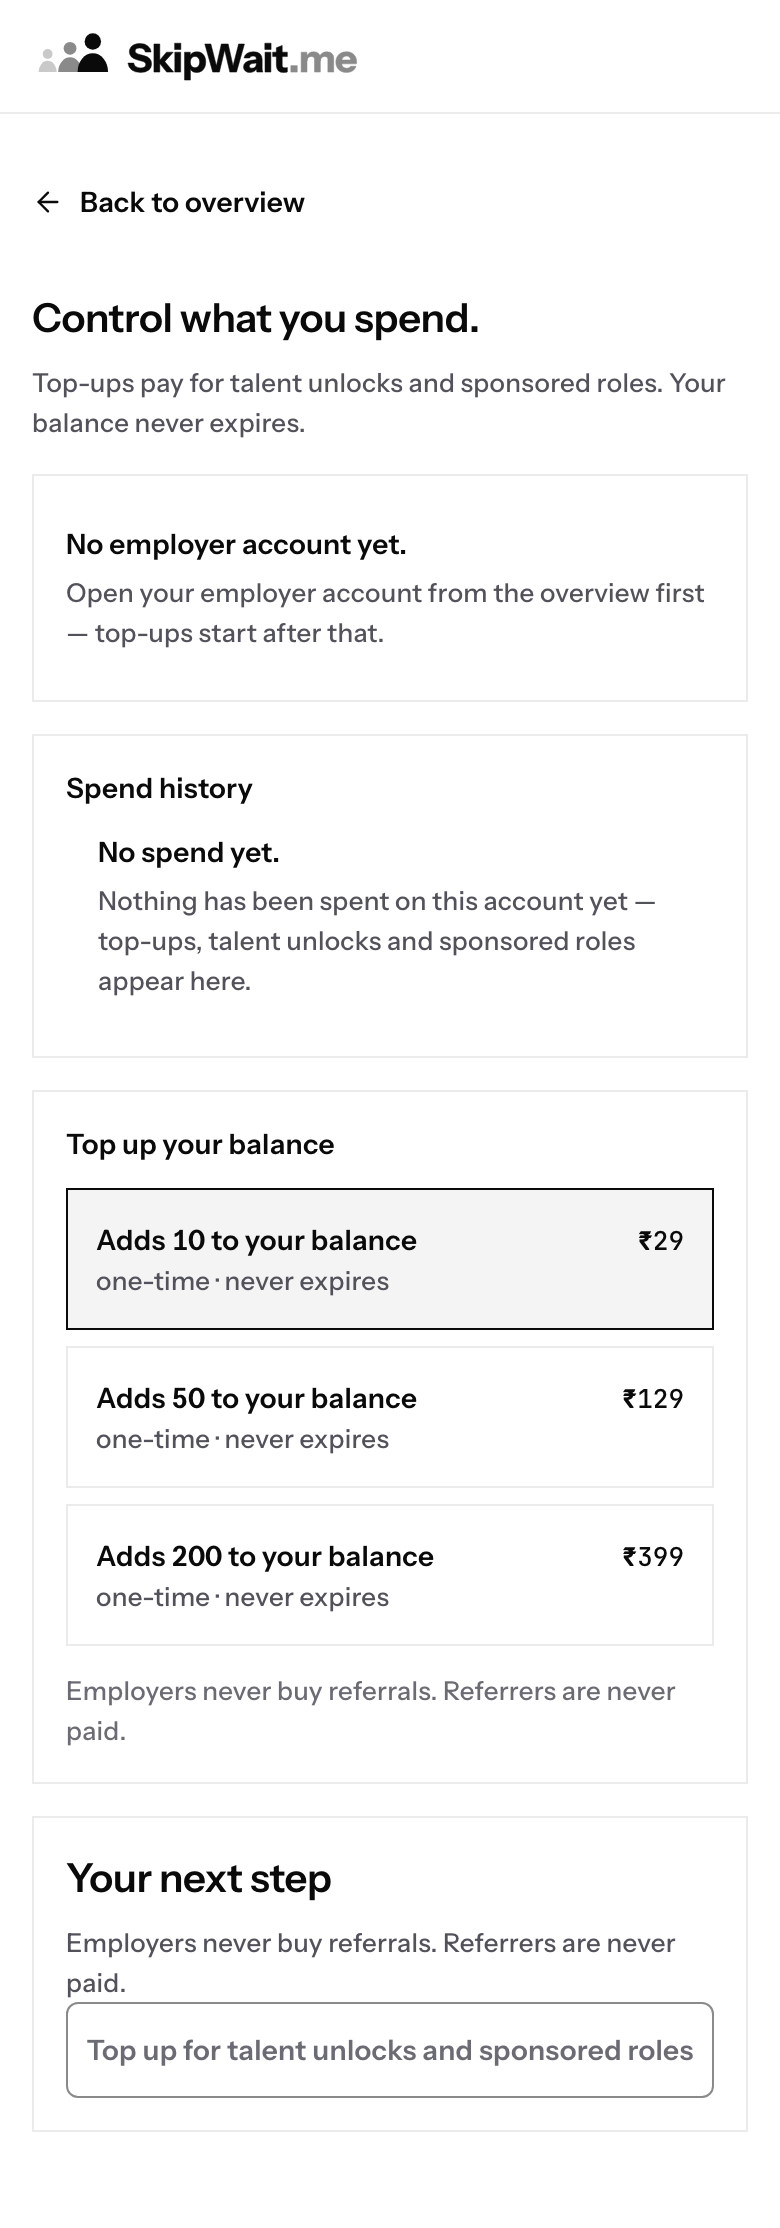
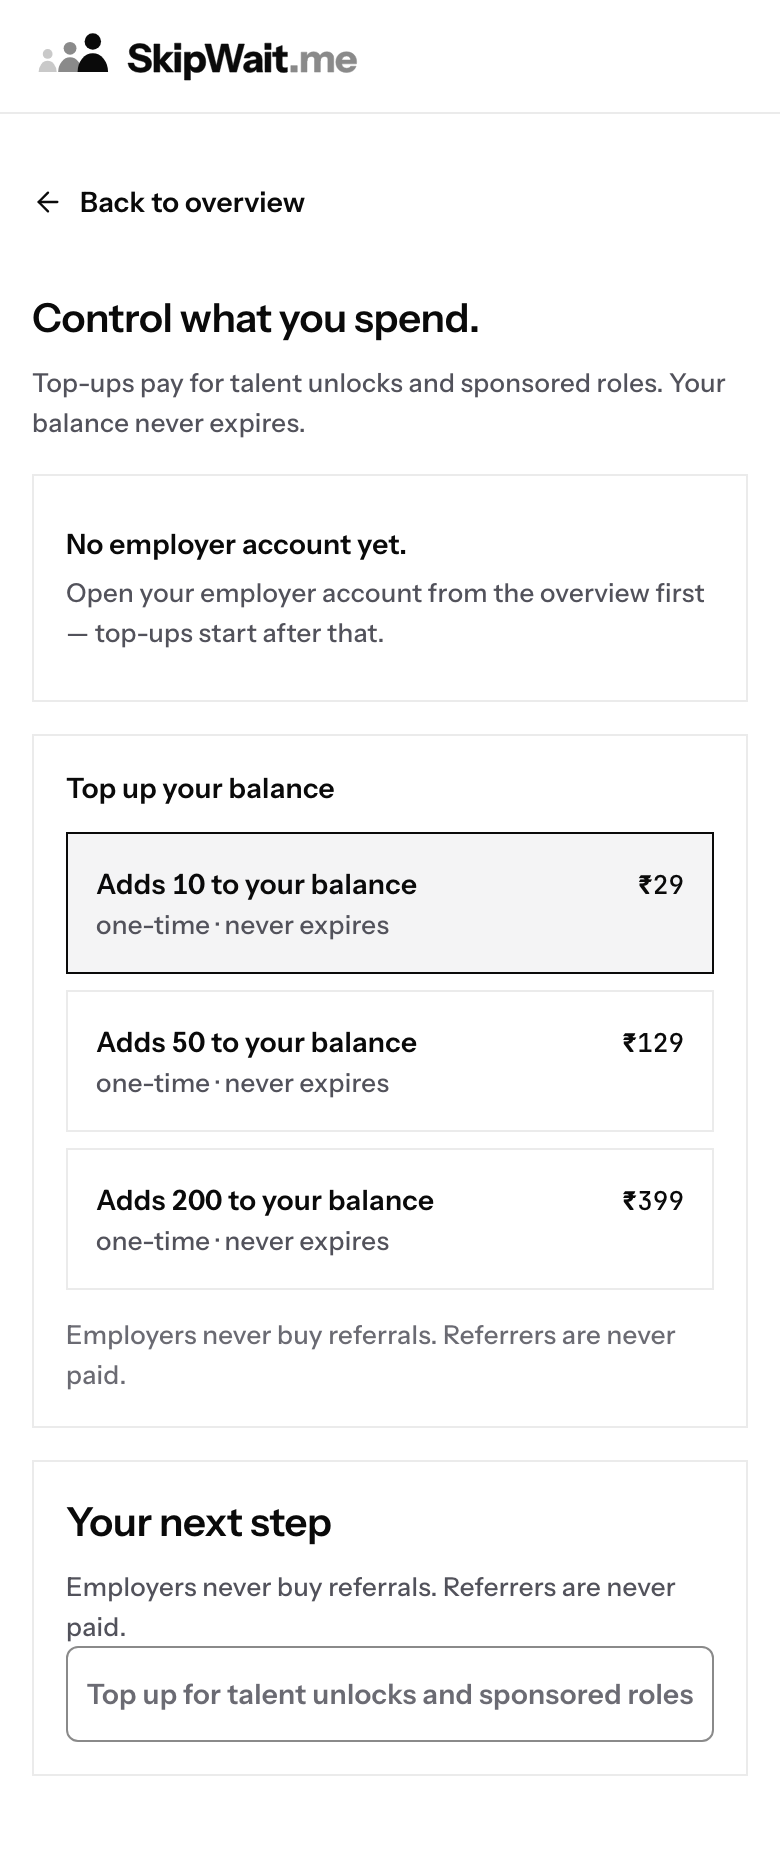
D-048-p3-employer-billing: name the missing account before the restricted state
A signed-in user with no employer account gets { account: null } from the
account route and 403 from the approved-employer ledger, so the page named
the restricted-tools state instead of the account that is actually missing.
The missing account now decides the disabled reason, and the restricted
notice renders only for an account that exists. The no-account test and its
capture fixture use the real 403 rather than a 200 the server never sends.

The purchase mock's default reply always described the growth pack while
tests selected starter, so a passing test could hold an order for a pack
nobody chose; it now derives the order from the requested pack, and a new
test pins that selecting scale opens a scale order.

diff --git a/client/src/pages/goal/employer-billing/employerBilling.goal.test.tsx b/client/src/pages/goal/employer-billing/employerBilling.goal.test.tsx
@@ -70,9 +70,13 @@ const serve = (server: Server) => {
     const path = String(input).replace(/^https?:\/\/[^/]+/, "").split("?")[0];
     if (path === PURCHASE_PATH) {
       const headers = (init?.headers ?? {}) as Record<string, string>;
-      calls.push({ path, method: init?.method ?? "GET", headers, body: String(init?.body ?? "") });
+      const body = String(init?.body ?? "");
+      calls.push({ path, method: init?.method ?? "GET", headers, body });
+      // The default reply describes the pack the request actually names, so a
+      // test cannot pass on an order that belongs to a different selection.
+      const requested = UNLOCK_PACKS.find(pack => pack.id === JSON.parse(body || "{}").pack) ?? UNLOCK_PACKS[0];
       const reply = server.purchase?.[Math.min(purchaseIndex, (server.purchase?.length ?? 1) - 1)]
-        ?? { status: 200, body: { orderId: "order_test_1", amount: 12900, currency: "INR", keyId: "rzp_test_key", pack: "growth", credits: 50 } };
+        ?? { status: 200, body: { orderId: "order_test_1", amount: requested.amountInPaise, currency: "INR", keyId: "rzp_test_key", pack: requested.id, credits: requested.adds } };
       purchaseIndex += 1;
       return json(reply.status, reply.body ?? { error: "We could not start the Razorpay checkout. Try again shortly." }, path);
     }
@@ -200,11 +204,16 @@ describe("goal /employer/billing states", () => {
   });
 
   it("no employer account yet: the commit is inert and says what must happen first", async () => {
-    serve({ account: null });
+    // The real server answer for a signed-in user with no employer account: the
+    // account route answers { account: null } and the approved-employer ledger
+    // answers 403 (server/employerRoutes.ts requireEmployer). The page must name
+    // the missing account, not the restricted-tools state that follows from it.
+    serve({ account: null, spendStatus: 403 });
     const { container } = renderPage(<GoalEmployerBilling />);
     const commit = await screen.findByRole("button", { name: /Top up for talent unlocks/ });
     expect(commit.getAttribute("aria-disabled")).toBe("true");
     expect(screen.getByText("Open your employer account first")).toBeTruthy();
+    expect(screen.queryByText("Employer tools, including top-ups, are closed for this account.")).toBeNull();
     expect(() => assertGoalPage(container, GOAL_PAGE)).not.toThrow();
     expect(purchaseCalls()).toHaveLength(0);
   });
@@ -336,6 +345,21 @@ describe("goal /employer/billing top-up money path", () => {
     await waitFor(() => expect(purchaseCalls()).toHaveLength(1));
     expect((await screen.findByRole("alert")).textContent).toMatch(/preparing your checkout/i);
     expect(widgetOpened).toBe(0);
+  });
+
+  it("the order the page opens belongs to the pack the employer selected", async () => {
+    serve({ account: ACCOUNT, spend: SPEND });
+    stubKeys();
+    stubRazorpay();
+    renderPage(<GoalEmployerBilling />);
+    fireEvent.click(await screen.findByRole("button", { name: /Adds 200 to your balance/ }));
+    fireEvent.click(screen.getByRole("button", { name: /Top up for talent unlocks and sponsored roles/ }));
+    await waitFor(() => expect(widgetOpened).toBe(1));
+    const scale = UNLOCK_PACKS.find(pack => pack.id === "scale");
+    expect(scale).toBeTruthy();
+    expect(purchaseCalls()[0].body).toBe('{"pack":"scale"}');
+    expect(widgetOptions.amount).toBe(scale?.amountInPaise);
+    expect(widgetOptions.amount).toBe(39900);
   });
 });
 

diff --git a/client/src/pages/goal/employer-billing/GoalEmployerBilling.tsx b/client/src/pages/goal/employer-billing/GoalEmployerBilling.tsx
@@ -154,7 +154,10 @@ export default function GoalEmployerBilling() {
 
   const restricted = data.spend.access === "restricted";
   const spend = data.spend;
-  const disabledReason = restricted ? RESTRICTED_REASON : data.account ? undefined : NO_ACCOUNT_REASON;
+  // The ledger's 403 follows from a missing account too (requireEmployer needs an
+  // approved one), so the missing account is the fact to name first; the
+  // restricted-tools notice only speaks for an account that exists.
+  const disabledReason = data.account ? (restricted ? RESTRICTED_REASON : undefined) : NO_ACCOUNT_REASON;
   const checkoutError = topUp.isError ? errorText(topUp.error, CHECKOUT_ERROR_FALLBACK) : "";
 
   return (
@@ -178,10 +181,10 @@ export default function GoalEmployerBilling() {
         ) : (
           <GoalEmptyState title={NO_ACCOUNT_TITLE} body={NO_ACCOUNT_BODY} className="border border-g-hairline bg-g-surface" />
         )}
-        {spend.access === "restricted" ? (
+        {data.account === null ? null : spend.access === "restricted" ? (
           <section className="border border-g-hairline bg-g-surface p-4 gdesk:p-5">
             <p className="text-g-label text-g-ink">{RESTRICTED_NOTICE}</p>
-            {data.account?.decisionNote ? <p className="mt-1 text-g-meta text-g-ink-2">{data.account.decisionNote}</p> : null}
+            {data.account.decisionNote ? <p className="mt-1 text-g-meta text-g-ink-2">{data.account.decisionNote}</p> : null}
           </section>
         ) : (
           <SpendRecord spend={spend} />

diff --git a/docs/plans/D-048-employer.md b/docs/plans/D-048-employer.md
@@ -90,6 +90,6 @@ None. Employer commercials and consent rules are already decided; this packet ma
 Branch agent/queue/d048-p3-employer-billing @ code head `7d188a19`, merged with origin/main `7df2004b` as a genuine two-parent merge (`208d5638`, parents `2d22adf1` + `7df2004b`; diff vs main unchanged at 6 files / 855 insertions before this row's captures). Red first: Qoder's test-only commit `82342af1` reproduced in a detached worktree — the goal suite cannot resolve `./GoalEmployerBilling` and both switch tests fail → 20/20 on the implementation head. This session's own defect pin `0180940d` failed 1/18 before the fix. Mutation binding: adding one field to the purchase POST body turns 2 money-path tests red (`expected '{"pack":"growth","note":"mutant"}' to be '{"pack":"growth"}'`); removing `grid-cols-1` from one grid turns the new overflow pin red again; both mutants restored clean. Gate on `7d188a19`: `pnpm check` 0 · design-token-audit OK (430 files / 1274 approved tokens / 3 third-party) · lint-deploy-migrations 0 · check-deploy-triggers OK · decision-id-check 0 · scope-check "3 owned path(s), every change inside them" · `git diff --check` 0 · focused 21/21 · boundary/coverage/harness 307/307 · full `pnpm quality:gate` 0 (maxWorkers=1, 1028s: 604 files + 5 skipped, 5949 passed + 18 skipped, 0 failed) · `pnpm build` 0 · `VITE_GOAL_SURFACES=all pnpm build` 0. 1280/390: 11 state pairs (22 PNGs) from 11 synthetic fixtures, all `horizontalOverflowPx: 0`, `unmatchedApi: []`; local build with `VITE_GOAL_SURFACES=employer-billing`. Live: not landed, by design (Tier 1 draft PR, D-074/D-151); `RELEASED` stays `["home"]`, so the surface ships dark and no live page changed.
 Left out / follow-ups: a fresh Tier 1 draft PR is red only at the Tier 1 review gate by construction — the D-254 class (#988/D-286 registers `PICKER-gate-red-review-route`); that gate is not waived, and the independent review is owed on the branch's final head (each status/marker commit moves it). The picker/FIFO order conflict measured this session is on #811 (comment 6666306241) and #982 (comment 6666324607): numbered priority hands the two paused LANDs (#989/#992) before the FIFO-first #982, and #982's LAND is reachable only after five avoids. No gate, tier, verdict, registry status, landing slot or production flag was changed by this session.
 
-`D-048-p3-employer-billing`: fix — agent/queue/d048-p3-employer-billing — Qoder · d6a6 — 2026-11-07 — resolves the two findings in GPT-6 Astra · 4e32's evidence-hold review of `091fbf70` (PR #996 comment 6712611722). **P2 fixture defect, repaired red-first.** `design/goal-ui/captures/employer-billing/goal-employer-billing__restricted.json` returned a bare account object while the route answers `{ account }` (`server/employerRoutes.ts:101`) and `employerBillingData.ts` parses that envelope, so the committed fixture parsed as `account: null` and rendered "No employer account yet." with no balance or decision note. The fixture now carries `{ "account": { ... } }` and `approvalStatus: "pending"`, which is the state that actually answers 403 on `/api/employer/spend-history` (`requireEmployer` needs `approved`; an `approved` account could not be restricted). A new test, "the committed restricted fixture renders the account it carries, not the no-account state", serves the checked-in fixture's own route bodies verbatim the way the capture harness does, and pins balance 8, the decision note, the absence of the no-account state, the disabled commit and zero purchase requests. It failed before the fix (`Unable to find an element with the text: Talent unlock balance`) and passes after. `restricted-1280.png` / `restricted-390.png` regenerated from the corrected fixture (`horizontalOverflowPx: 0` at both). **Finding 1, assertion-level red-first evidence.** Each required assertion was proved to fail on its own, with the implementation mutated and restored byte-identically (`git diff --stat` empty after each run): restricted state — dropping `RESTRICTED_REASON` from `disabledReason` fails `expected null to be 'true'` on the commit's `aria-disabled`; no-account state — same mutation fails the same assertion; money copy — `TOPUP_HEADING = "Buy credits"` fails `expected '…' not to match /Buy credits|Buy referrals/`; loading — returning `null` instead of `<Loading />` fails `Unable to find role="heading" and name "Control what you spend."`; error — replacing "Nothing was changed." fails `expected 'Something went wrong.…' to contain 'Nothing was changed'`. These are assertion failures at the named test, not a module-resolution error. Gate on this head: `pnpm check` 0 · design-token-audit OK (442 files / 1273 approved tokens / 3 third-party) · lint-deploy-migrations 0 · check-deploy-triggers OK · scope-check "3 owned path(s), every change inside them" · `git diff --check` 0 · focused `employer-billing` 22/22 · `pnpm build` 0 · `VITE_GOAL_SURFACES=all pnpm build` 0. **Not fixed here, by ownership:** the reviewer's separate pre-existing note that the flag-off `EmployerBilling.tsx:77` handler omits the `Idempotency-Key` the route requires (428) is real and predates this PR; `EmployerBilling.tsx` is switch-only under this row's owns, so it needs its own row rather than an edit here. No production flag, employer price, unlock or access rule changed.
+`D-048-p3-employer-billing`: fix — agent/queue/d048-p3-employer-billing — Qoder · d6a6 — 2026-11-07 — resolves the findings in GPT-6 Astra · 4e32's evidence-hold review and its reconciliation addendum on `091fbf70` (PR #996 comments 6713008784, 6713103915). **P2 fixture defect, repaired red-first.** `goal-employer-billing__restricted.json` returned a bare account object while the route answers `{ account }` (`server/employerRoutes.ts:101`) and `employerBillingData.ts` parses that envelope, so the committed fixture parsed as `account: null` and rendered "No employer account yet." with no balance or decision note. It now carries `{ "account": { ... } }` with `approvalStatus: "pending"` — the state that actually answers 403 on spend-history, since `requireEmployer` needs `approved`. A new test serves the checked-in fixture's own route bodies verbatim, the way `capture.mjs` does, and pins balance 8, the decision note, the absence of the no-account state, the disabled commit and zero purchase requests; it failed before the fix (`Unable to find an element with the text: Talent unlock balance`) and passes after. `restricted-1280/390.png` regenerated, `horizontalOverflowPx: 0` at both. **No-account state, repaired red-first.** The reviewer noted the no-account test mocked spend-history as 200, not the real 403. With the real 403 the page named the restricted-tools state instead of the missing account, because the 403 follows from a missing account too. `disabledReason` now names the missing account first and the restricted notice renders only for an account that exists; the no-account test and its fixture both use the real 403, and `no-account-1280/390.png` are regenerated. It failed before the change (`Unable to find an element with the text: Open your employer account first.`) and passes after. **Test-fixture mismatch, repaired.** The purchase mock's default reply always described growth (₹129/50) while tests selected starter (₹29/10); it now derives the order from the pack the request names, and a new test pins that selecting scale opens a ₹399/200 order — reverting the mock to the hardcoded growth reply fails it (`expected 12900 to be 39900`). **Assertion-level red-first evidence (finding 1).** Each required assertion was proved to fail on its own with the implementation mutated and restored byte-identically (`git diff --stat` empty after each run; no mutation committed): restricted state — dropping `RESTRICTED_REASON` fails `expected null to be 'true'` on the commit's `aria-disabled`; money copy — `TOPUP_HEADING = "Buy credits"` fails `not to match /Buy credits|Buy referrals/`; loading — returning `null` instead of `<Loading />` fails `Unable to find role="heading" and name "Control what you spend."`; error — replacing "Nothing was changed." fails `to contain 'Nothing was changed'`. These are assertion failures at the named test, not a module-resolution error. **Gate on this head:** `pnpm check` 0 · design-token-audit OK · lint-deploy-migrations 0 · check-deploy-triggers OK · scope-check "3 owned path(s), every change inside them" · `git diff --check` 0 · focused `employer-billing` 23/23 · `pnpm build` 0 · `VITE_GOAL_SURFACES=all pnpm build` 0. **Not fixed here, by ownership:** the confirmed pre-existing defect that the flag-off `EmployerBilling.tsx:77` handler omits the `Idempotency-Key` the route requires (428) predates this PR and `EmployerBilling.tsx` is switch-only under this row's owns, so it needs its own row. The reviewer's provider-contract and checkout-recovery observations (order-note propagation to payment-entity notes; no dismissal/decline hook) are recorded as risk, not proven defects, and belong to the payment lane. No production flag, employer price, unlock or access rule changed.
 
 `D-048-p3-for-companies`: unblocked by ruling **D-296** (2026-11-07, Antigravity · 2651, unblock lock `agent/architect/d048-p3-for-companies`): the block on Hark · 32ab's build is registration, not a defect. This packet already names `components/employer/employerPlans.ts` read-only (`:37`), and the data contracts carry no styling leak (satisfies `behavior-only` under D-241). The row now owns `client/src/test/goalPagesBoundary.test.ts` (syncedTo `"D-296"`); on the row's own branch, admit `components/employer/employerPlans.ts` as a `behavior-only` AUDITED entry. The row stays Tier 1 and `todo`.
